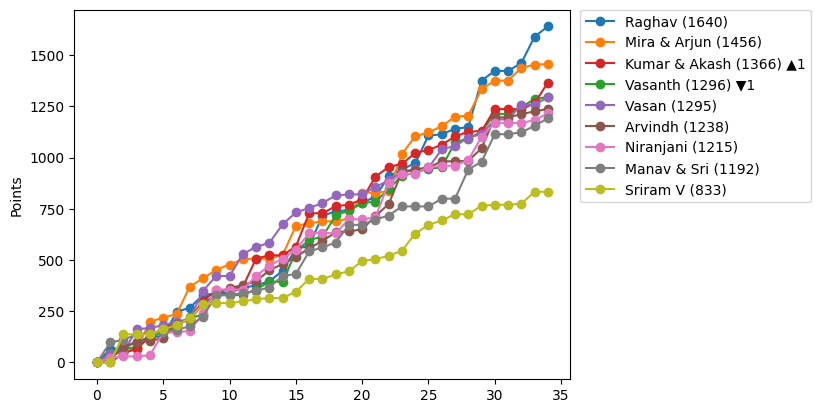
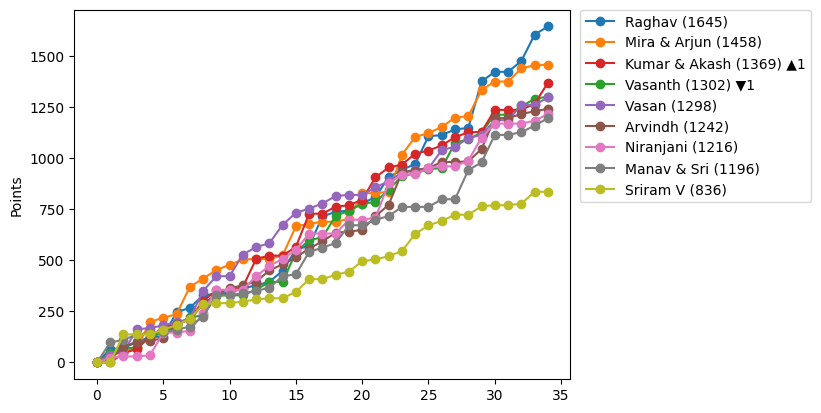
Fix points miscalculated because of change in website points for run outs.

diff --git a/ipl2026/ipl_2026_fantasy.py b/ipl2026/ipl_2026_fantasy.py
@@ -43,7 +43,7 @@ ipl_day_0 = date(2026, 3, 27)
 ipl_day_cur = date.today()
 day_num = abs((ipl_day_cur - ipl_day_0).days)
 # Uncomment to set a specific day to get points for.
-# day_num = 30
+day_num = int(sys.argv[2])
 day = 'day_' + str(day_num)
 prev_day = 'day_' + str(day_num - 1)
 print(day_num)
@@ -87,7 +87,7 @@ if group_pts_source == 'iplt20':
         mvp_df['Catches'] * 2.5 +
         mvp_df['Stumpings'] * 2.5 +
         mvp_df['Dots'] * 1 +
-        (mvp_df['Run outs'] / 3.5) * 1
+        (mvp_df['Run outs'] / 0.5) * 1
     )
 mvp_df
 